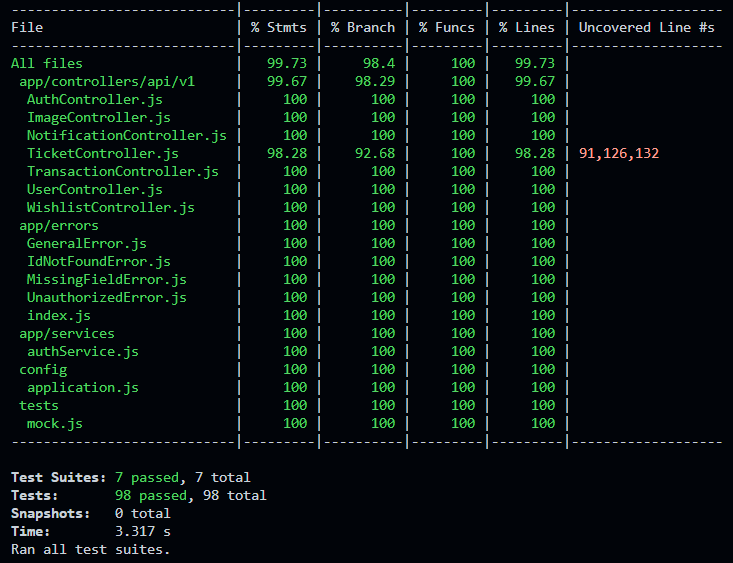
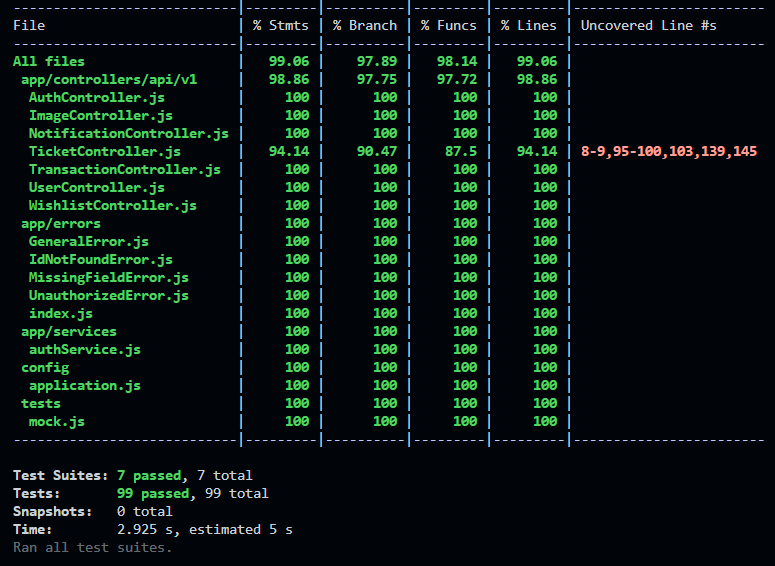
add user data to transaction query

Changed region(s): [[0.0, 0.0, 0.9905, 0.7851], [0.0, 0.8153, 0.3602, 0.9964]]

diff --git a/app/controllers/api/v1/tests/TransactionController.spec.js b/app/controllers/api/v1/tests/TransactionController.spec.js
@@ -23,9 +23,12 @@ describe('TransactionController', () => {
       const mockTicketService = {
         get: jest.fn().mockReturnValue(mock.TICKET),
       };
+      const mockUserService = {
+        simpleGet: jest.fn().mockReturnValue(mock.USER),
+      };
 
       const controller = new TransactionController(
-          mockTransactionService, mockTicketService, {}, {});
+          mockTransactionService, mockTicketService, {}, {}, mockUserService);
       await controller.handleGetList(mockReq, mockRes);
 
       expect(mockTransactionService.listByUser).toHaveBeenCalled();
@@ -36,6 +39,7 @@ describe('TransactionController', () => {
         data: [{
           ...mock.TRANSACTION,
           ticket: mock.TICKET,
+          user: mock.USER,
         }],
         meta: {count: 1},
       });
@@ -55,9 +59,12 @@ describe('TransactionController', () => {
       const mockTicketService = {
         get: jest.fn().mockReturnValue(mock.TICKET),
       };
+      const mockUserService = {
+        simpleGet: jest.fn().mockReturnValue(mock.USER),
+      };
 
       const controller = new TransactionController(
-          mockTransactionService, mockTicketService, {}, {});
+          mockTransactionService, mockTicketService, {}, {}, mockUserService);
       await controller.handleGetList(mockReq, mockRes);
 
       expect(mockTransactionService.list).toHaveBeenCalled();
@@ -68,6 +75,7 @@ describe('TransactionController', () => {
         data: [{
           ...mock.TRANSACTION,
           ticket: mock.TICKET,
+          user: mock.USER,
         }],
         meta: {count: 1},
       });
@@ -111,9 +119,12 @@ describe('TransactionController', () => {
       const mockTicketService = {
         get: jest.fn().mockReturnValue(mock.TICKET),
       };
+      const mockUserService = {
+        simpleGet: jest.fn().mockReturnValue(mock.USER),
+      };
 
       const controller = new TransactionController(
-          mockTransactionService, mockTicketService, {}, {});
+          mockTransactionService, mockTicketService, {}, {}, mockUserService);
       await controller.handleGet(mockReq, mockRes);
 
       expect(mockTransactionService.get).toHaveBeenCalled();
@@ -124,6 +135,7 @@ describe('TransactionController', () => {
         data: {
           ...mock.TRANSACTION,
           ticket: mock.TICKET,
+          user: mock.USER,
         },
       });
     });
@@ -146,9 +158,12 @@ describe('TransactionController', () => {
       const mockTicketService = {
         get: jest.fn().mockReturnValue(mock.TICKET),
       };
+      const mockUserService = {
+        simpleGet: jest.fn().mockReturnValue(mock.USER),
+      };
 
       const controller = new TransactionController(
-          mockTransactionService, mockTicketService, {}, {});
+          mockTransactionService, mockTicketService, {}, {}, mockUserService);
       await controller.handleGet(mockReq, mockRes);
 
       expect(mockTransactionService.get).toHaveBeenCalled();
@@ -159,6 +174,7 @@ describe('TransactionController', () => {
         data: {
           ...mock.TRANSACTION,
           ticket: mock.TICKET,
+          user: mock.USER,
         },
       });
     });

diff --git a/app/controllers/api/v1/TransactionController.js b/app/controllers/api/v1/TransactionController.js
@@ -10,11 +10,13 @@ class TransactionController {
       ticketService,
       notificationService,
       emailService,
+      userService,
   ) {
     this.transactionService = transactionService;
     this.ticketService = ticketService;
     this.notificationService = notificationService;
     this.emailService = emailService;
+    this.userService = userService;
   }
 
   handleGetList = async (req, res) => {
@@ -31,10 +33,12 @@ class TransactionController {
       const result = [];
       for (let i = 0; i < transactions.length; i++) {
         const transaction = transactions[i];
+        const user = await this.userService.simpleGet(transaction.userId);
         const ticket = await this.ticketService.get(transaction.ticketId);
         const append = {
           ...transaction.dataValues,
           ticket,
+          user,
         };
         result.push(append);
       }
@@ -68,6 +72,7 @@ class TransactionController {
         res.status(401).json(error.json());
         return;
       }
+      const userData = await this.userService.simpleGet(transaction.userId);
       const ticket = await this.ticketService.get(transaction.ticketId);
       res.status(200).json({
         status: 'success',
@@ -75,6 +80,7 @@ class TransactionController {
         data: {
           ...transaction.dataValues,
           ticket,
+          user: userData,
         },
       });
     } catch (err) {

diff --git a/app/routers/apiRouter.js b/app/routers/apiRouter.js
@@ -78,6 +78,7 @@ apiRouter.delete('/tickets/:id/wishlist',
 const transactionController = new controller.api.v1.TransactionController(
     transactionService, ticketService,
     notificationService, emailService,
+    userService,
 );
 apiRouter.get('/transactions',
     authController.authorizeUser,

diff --git a/app/repositories/userRepository.js b/app/repositories/userRepository.js
@@ -29,6 +29,7 @@ module.exports = {
   attributesFind(id, attributesArr) {
     return User.findByPk(id, {
       attributes: attributesArr,
+      paranoid: false,
     });
   },
 
